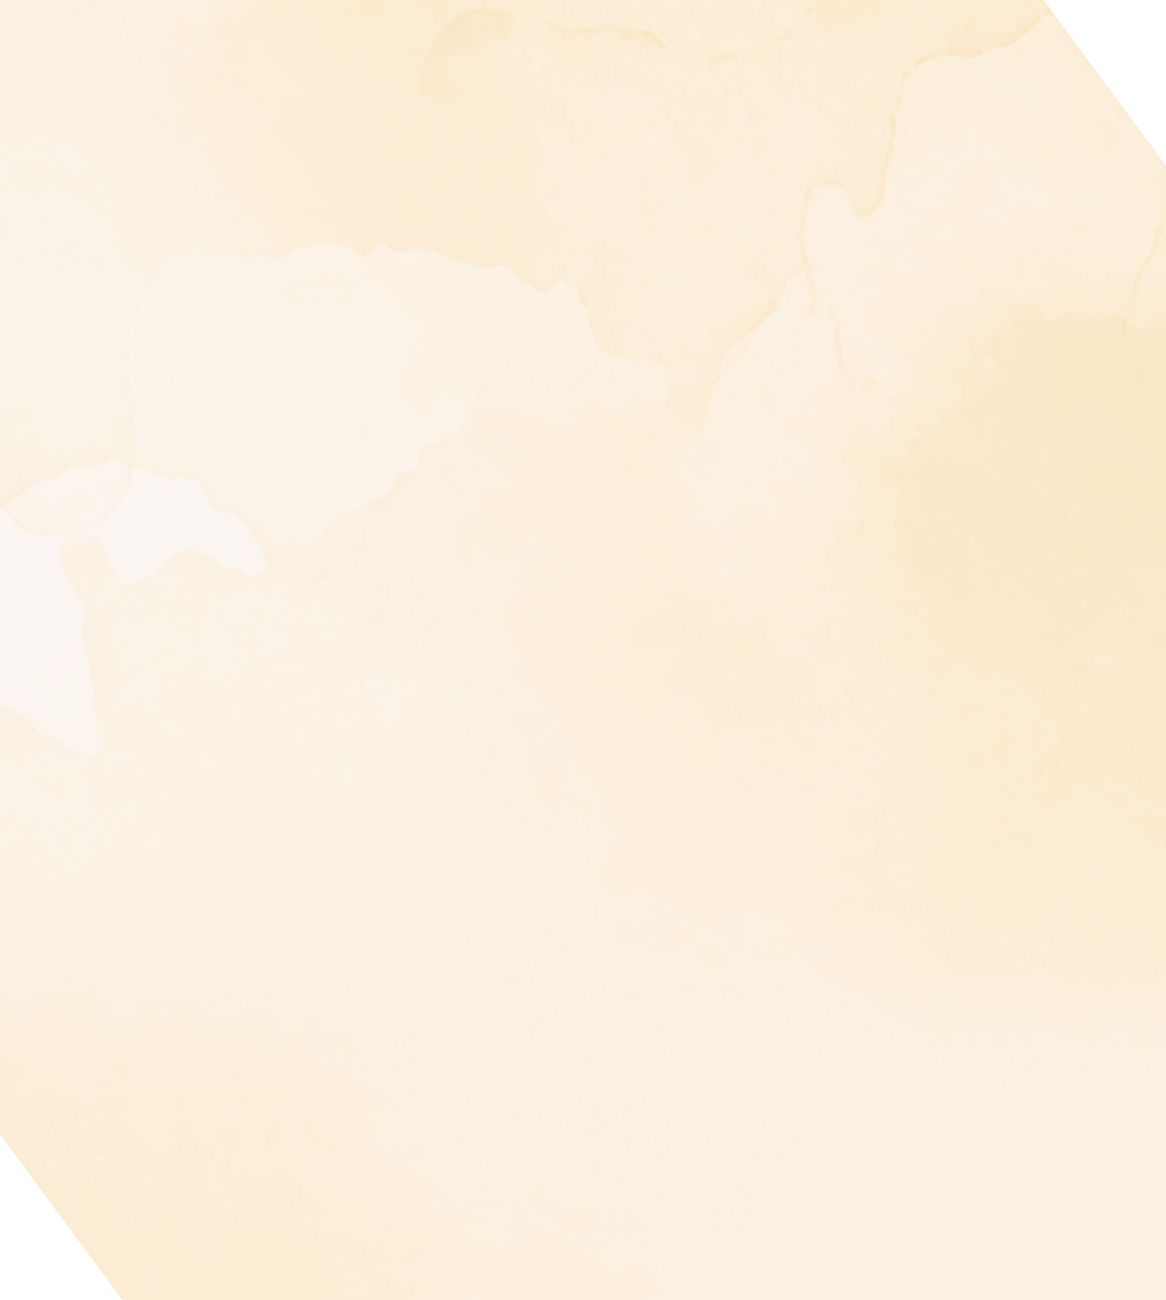
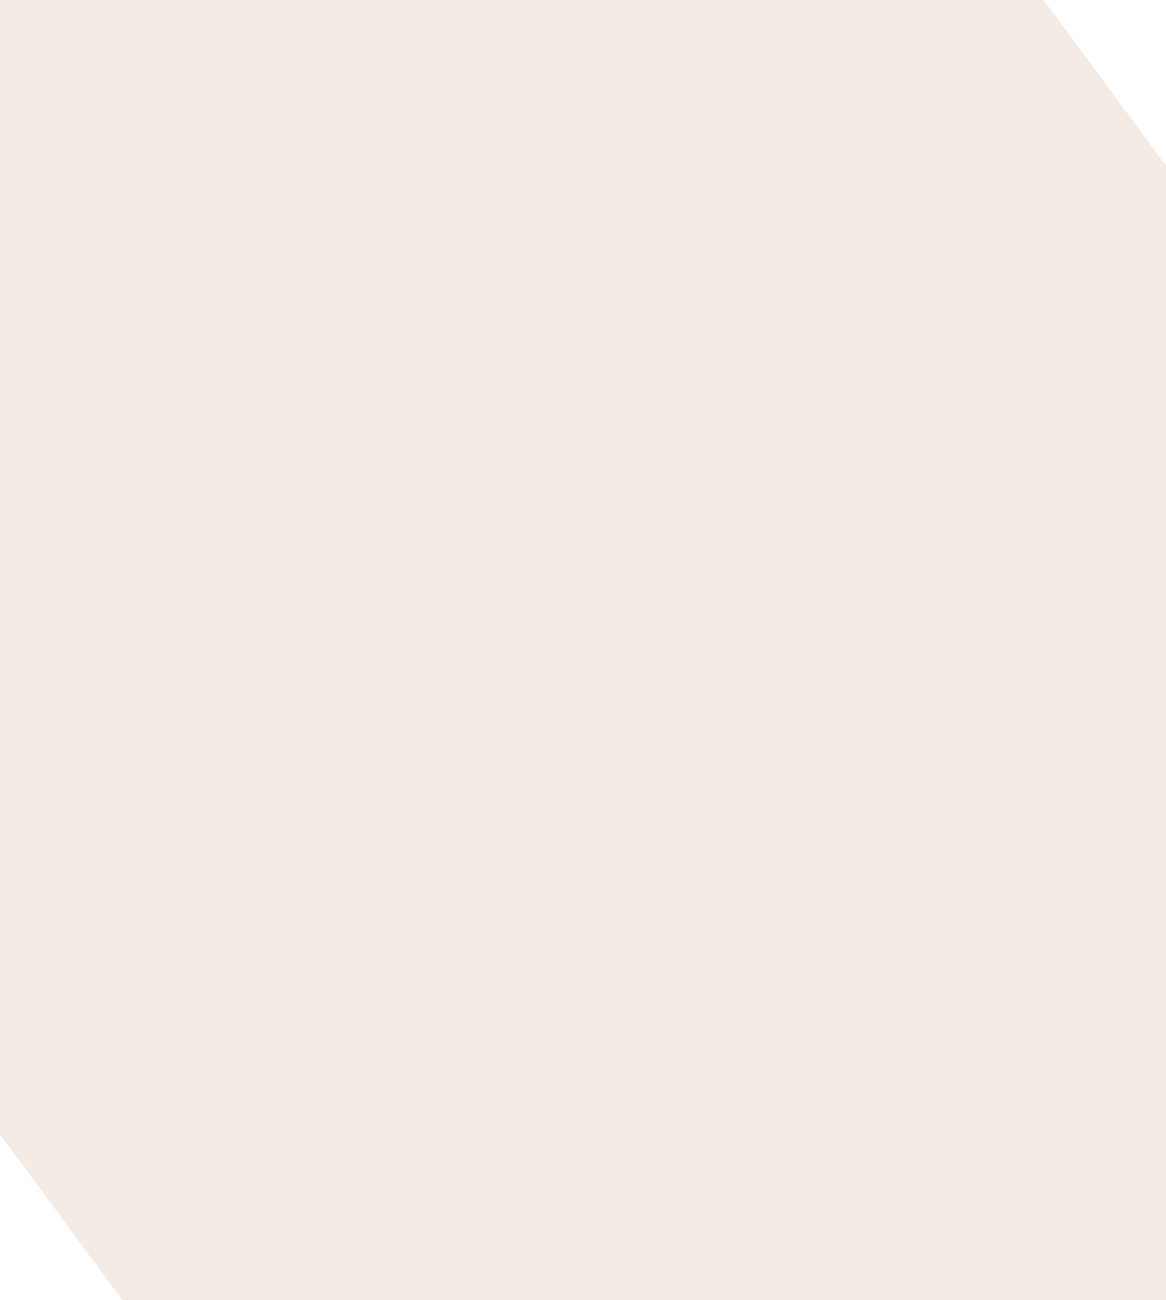
responsive check complate

diff --git a/style1.css b/style1.css
@@ -50,16 +50,24 @@ hh-content-sec-8-wrp
 	padding-top: 50px;
 	position: relative;
 }
-.hh-content-sec-8-wrp span:first-of-type {
+.hh-content-sec-8-wrp > span{
+	display: inline-block;
+	vertical-align: baseline;
+	background: transparent;
+}
+.hh-content-sec-8-wrp > span:first-of-type {
     position: absolute;
     right: 0;
     top: -150px;
+    z-index: 1;
+    background: transparent;
 }
-.hh-content-sec-8-wrp span:last-of-type {
+.hh-content-sec-8-wrp > span:last-of-type {
     position: absolute;
     left: 0;
     bottom: -155px;
     z-index: 1;
+    background: transparent;
 }
 .hh-title-headding h2{
 	margin: 0;
@@ -93,7 +101,6 @@ hh-content-sec-8-wrp
 .hh-content-sec-8-wrp .hh-two-grid-lft-img img{
 	min-height: 445px;
 }
-.hh-content-sec-8-wrp .hh-two-grid-rgt-dsc p span{}
 
 /*
 ---------------------
@@ -125,12 +132,13 @@ hh-content-sec-9-wrp
 	padding-left: 15px;
 	padding: 5px 10px 7px 15px;
 	margin-left: -15px;
+	font-family: 'Montserrat-SemiBold';
 }
 .mrg-lft{
-	margin-left: -15px;
+	margin-left: -25px;
 }
 .hh-content-sec-9-wrp .hh-two-grid-lft-img img{
-	height: 530px;
+	height: 560px;
 }
 
 @media(max-width: 1600px){
@@ -273,9 +281,15 @@ hh-content-sec-9-wrp
 	.hh-content-sec-8-wrp .hh-two-grid-lft-img img {
 	    min-height: auto;
 	}
-	.hh-content-sec-8-wrp span:first-of-type,
-	.hh-content-sec-8-wrp span:last-of-type {
+	.hh-content-sec-8-wrp span:first-of-type{
 	    z-index: 0;
+	    width: 70px;
+	    top: -92px;
+	}
+	.hh-content-sec-8-wrp span:last-of-type{
+		width: 70px;
+		bottom: -94px;
+		z-index: 0;
 	}
 	.hh-content-sec-9-wrp .hh-two-grid-rgt-img img {
 	    height: auto;

diff --git a/index-2.html b/index-2.html
@@ -54,7 +54,7 @@
     </div>
   </section><!-- end of hh-content-sec-7-wrp-->
 
-  <section class="hh-content-sec-8-wrp plr-10 lazy" data-src="assets/images/hh-content-sec-8-bg.jpg">
+  <section class="hh-content-sec-8-wrp plr-10 lazy" data-src="assets/images/hh-health-risks-bg.jpg">
     <span><img class="lazy" data-src="assets/images/angle-tp-icon.png"></span>
     <span><img class="lazy" data-src="assets/images/angle-btm-icon.png"></span>
     <div class="container">
